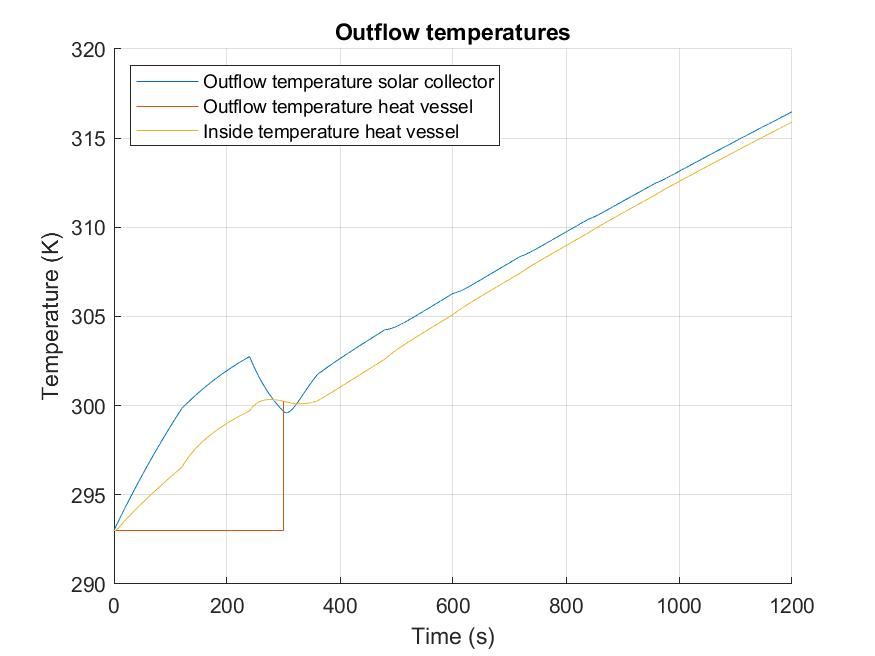
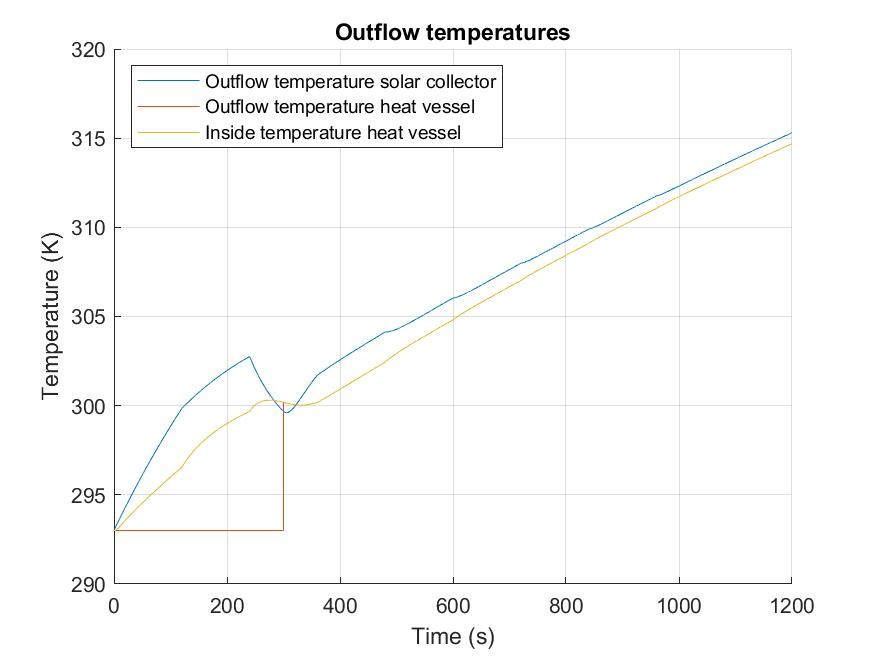
Fixed HV area, T HV 1.3 K lower

diff --git a/Main_numerical_model.m b/Main_numerical_model.m
@@ -59,7 +59,6 @@ close all;
     N_insLayers = 6;                            %Number of insulating polyethylene foam foil layers [m]
     R_polyFoil = N_insLayers * 0.003;           %Radius thickness polyethylene foam foil [m]
     L_Tube_HV = 0.71;                               %PVC length [m]
-    A_HV = 2*pi*(R_pvc2+R_polyFoil)*L_Tube_HV;      %Surface area Heat storage vessel %%%%CHECK THIS
 %Measurements for in- and outlet connectors
     D_Po = 0.012;                               %Diameter of the polyurethane tube [m]
     R_Po1 = 0.004;                              %Inner radius of the polyurethane tube [m]
@@ -73,7 +72,7 @@ close all;
     A_AirTape = 1.971;                                      %Area of the aluminum tape that is exposed to the air [m^2]
     A_AirSS = 2*(1.64*0.67)+2*(0.67*0.065)+2*(0.065*1.72);  %Area of solar collector that is exposed to the air [m^2]
     A_frame = 2*(0.67*0.065)+2*(0.065*1.72);                %Area of sides touching pinewood [m^2]
-    A_vessel = 2*pi*(R_pvc2)^2 + L_Tube_HV*2*pi*R_pvc2;     %Area of heat vessel [m^2] %%%%CHECK THIS
+    A_HV = 2*pi*(R_pvc2+R_polyFoil)*L_Tube_HV;              %Area of heat vessel [m^2] %%%%CHECK THIS
 %Intensity
     I_sun = 1000;                               %Intensity of the artificial sun [W/m^2]
     I_glass = 950;                              %Intensity after absorption of glass plate [W/m^2]
@@ -162,8 +161,8 @@ for t=0:t_step:t_end
     R_HV_PVC_cond = R_pvc1/(k_PVC*(2*pi*R_pvc2*L_Tube_HV));                     %Thermal resitance of conduction through PVC [K/W]
     R_HV_ins_Cond =  (log((R_pvc2 + R_polyFoil)/R_pvc2)) / (k_foil*A_HV);   %Thermal resitance of conduction through poly foam foil [K/W]
     R_HV_ins_Conv = 1 / (h_air*A_HV);                                       %Thermal resitance of convection outside poly foam foil [K/W]
-    HL_RadOut_PVC = e_PVC * sigma * A_vessel * (T_HV_inside^4 - T_sur^4);   %Heat loss due to radiation PVC [W]
-    HL_RadOut_foam = e_foam * sigma * A_vessel * (T_HV_inside^4 - T_sur^4); %Heat loss due to radiation foam foil [W]
+    HL_RadOut_PVC = e_PVC * sigma * A_HV * (T_HV_inside^4 - T_sur^4);   %Heat loss due to radiation PVC [W]
+    HL_RadOut_foam = e_foam * sigma * A_HV * (T_HV_inside^4 - T_sur^4); %Heat loss due to radiation foam foil [W]
     R_HV_ins_total = R_HV_PVC_cond + R_HV_ins_Cond + R_HV_ins_Conv;         %Total thermal resistance in series [K/W]
     %Total heat flow through insulation multiplied with fraction hot water
     dQdt_HV_insulation = m_hv_frac*(-((T_HV_inside - T_sur ) / R_HV_ins_total)-HL_RadOut_PVC-HL_RadOut_foam);   
